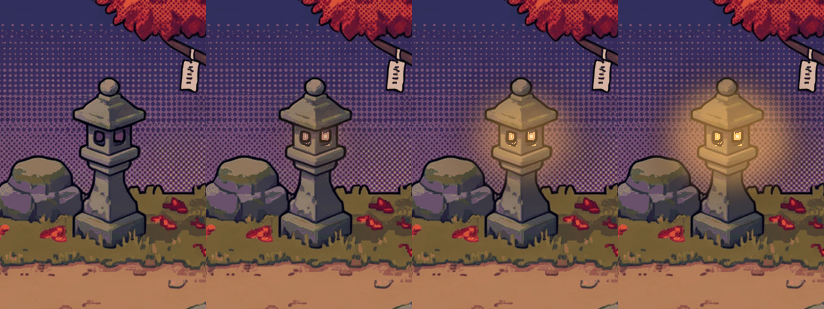
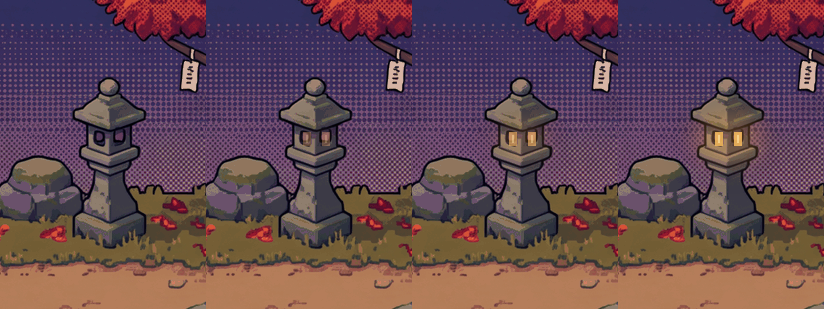
Realm props: Pomelo has to come about a body length from a prop before it reacts (reach max(70px, 16% of stage), was 30%), and the four lantern sheets are repainted with a quieter glow: warm amber windows instead of white-hot, a halo half the size at half the strength.
Claude-Session: https://claude.ai/code/session_01Vj1nxmQmmwQb3qWB1ZfZZg

Changed region(s): [[0.7888, 0.2621, 0.9709, 0.6408], [0.5765, 0.2913, 0.6978, 0.6117], [0.3641, 0.3786, 0.4248, 0.4951]]

diff --git a/realm.html b/realm.html
@@ -7,10 +7,10 @@
 <meta name="theme-color" content="#16112b" />
 <title>Realm, ScoreQuest</title>
 <meta name="description" content="Walk the realm: a side-view stroll through one biome of the quest." />
-<link rel="stylesheet" href="css/style.css?v=b20261027a" />
+<link rel="stylesheet" href="css/style.css?v=b20261027b" />
 <link href="https://fonts.googleapis.com/css2?family=Pixelify+Sans:wght@400;600;700&display=swap" rel="stylesheet" />
-<link rel="stylesheet" href="assets/katex/katex.min.css?v=b20261027a" />
-<link rel="stylesheet" href="css/clash.css?v=b20261027a" />
+<link rel="stylesheet" href="assets/katex/katex.min.css?v=b20261027b" />
+<link rel="stylesheet" href="css/clash.css?v=b20261027b" />
 <link rel="icon" type="image/png" href="assets/logo.png" />
 </head>
 <body class="page-realm">
@@ -65,21 +65,21 @@
 </div>
 
 <script src="https://cdn.jsdelivr.net/npm/@supabase/supabase-js@2"></script>
-<script src="js/config.js?v=b20261027a"></script>
-<script src="js/auth.js?v=b20261027a"></script>
-<script src="js/paws.js?v=b20261027a"></script>
-<script src="js/sfx.js?v=b20261027a"></script>
-<script src="js/companion.js?v=b20261027a"></script>
-<script src="assets/katex/katex.min.js?v=b20261027a"></script>
-<script src="assets/katex/auto-render.min.js?v=b20261027a"></script>
-<script src="data/questions.js?v=b20261027a"></script>
-<script src="data/waypoints.js?v=b20261027a"></script>
-<script src="data/lessons.js?v=b20261027a"></script>
-<script src="js/figures.js?v=b20261027a"></script>
-<script src="js/questions.js?v=b20261027a"></script>
-<script src="js/qcard.js?v=b20261027a"></script>
-<script src="js/clash-arena.js?v=b20261027a"></script>
-<script src="js/clash-overlay.js?v=b20261027a"></script>
-<script src="js/realm.js?v=b20261027a"></script>
+<script src="js/config.js?v=b20261027b"></script>
+<script src="js/auth.js?v=b20261027b"></script>
+<script src="js/paws.js?v=b20261027b"></script>
+<script src="js/sfx.js?v=b20261027b"></script>
+<script src="js/companion.js?v=b20261027b"></script>
+<script src="assets/katex/katex.min.js?v=b20261027b"></script>
+<script src="assets/katex/auto-render.min.js?v=b20261027b"></script>
+<script src="data/questions.js?v=b20261027b"></script>
+<script src="data/waypoints.js?v=b20261027b"></script>
+<script src="data/lessons.js?v=b20261027b"></script>
+<script src="js/figures.js?v=b20261027b"></script>
+<script src="js/questions.js?v=b20261027b"></script>
+<script src="js/qcard.js?v=b20261027b"></script>
+<script src="js/clash-arena.js?v=b20261027b"></script>
+<script src="js/clash-overlay.js?v=b20261027b"></script>
+<script src="js/realm.js?v=b20261027b"></script>
 </body>
 </html>

diff --git a/clash.html b/clash.html
@@ -9,8 +9,8 @@
 <link rel="preconnect" href="https://fonts.googleapis.com" />
 <link rel="preconnect" href="https://fonts.gstatic.com" crossorigin />
 <link href="https://fonts.googleapis.com/css2?family=Pixelify+Sans:wght@400;600;700&display=swap" rel="stylesheet" />
-<link rel="stylesheet" href="assets/katex/katex.min.css?v=b20261027a" />
-<link rel="stylesheet" href="css/clash.css?v=b20261027a" />
+<link rel="stylesheet" href="assets/katex/katex.min.css?v=b20261027b" />
+<link rel="stylesheet" href="css/clash.css?v=b20261027b" />
 <style>
 :root {
   --bg: #efe9da; --card: #fffdf7; --ink: #2b2118; --muted: #6f6252; --line: #d9cfba;
@@ -131,16 +131,16 @@ body.focus .trail .here { display: none; }
 </main>
 
 <script defer src="https://cdn.jsdelivr.net/npm/@supabase/supabase-js@2"></script>
-<script defer src="assets/katex/katex.min.js?v=b20261027a"></script>
-<script defer src="assets/katex/auto-render.min.js?v=b20261027a"></script>
-<script defer src="js/config.js?v=b20261027a"></script>
-<script defer src="js/auth.js?v=b20261027a"></script>
-<script defer src="data/questions.js?v=b20261027a"></script>
-<script defer src="js/figures.js?v=b20261027a"></script>
-<script defer src="js/questions.js?v=b20261027a"></script>
-<script defer src="js/qcard.js?v=b20261027a"></script>
-<script defer src="js/clash-arena.js?v=b20261027a"></script>
-<script defer src="js/clash-ambient.js?v=b20261027a"></script>
-<script defer src="js/clash.js?v=b20261027a"></script>
+<script defer src="assets/katex/katex.min.js?v=b20261027b"></script>
+<script defer src="assets/katex/auto-render.min.js?v=b20261027b"></script>
+<script defer src="js/config.js?v=b20261027b"></script>
+<script defer src="js/auth.js?v=b20261027b"></script>
+<script defer src="data/questions.js?v=b20261027b"></script>
+<script defer src="js/figures.js?v=b20261027b"></script>
+<script defer src="js/questions.js?v=b20261027b"></script>
+<script defer src="js/qcard.js?v=b20261027b"></script>
+<script defer src="js/clash-arena.js?v=b20261027b"></script>
+<script defer src="js/clash-ambient.js?v=b20261027b"></script>
+<script defer src="js/clash.js?v=b20261027b"></script>
 </body>
 </html>

diff --git a/index.html b/index.html
@@ -13,7 +13,7 @@
    before first paint so navigation never flashes the marketing tabs */
 try { if (window.localStorage.getItem('sb-moasnmwcikwybriwaoip-auth-token')) document.documentElement.classList.add('is-authed'); } catch (e) {}
 </script>
-<link rel="stylesheet" href="css/style.css?v=b20261027a" />
+<link rel="stylesheet" href="css/style.css?v=b20261027b" />
 
 <link rel="icon" type="image/png" href="assets/logo.png" />
 </head>
@@ -479,16 +479,16 @@ try { if (window.localStorage.getItem('sb-moasnmwcikwybriwaoip-auth-token')) doc
 </footer>
 
 <script defer src="https://cdn.jsdelivr.net/npm/@supabase/supabase-js@2"></script>
-<script defer src="js/config.js?v=b20261027a"></script>
-<script defer src="js/auth.js?v=b20261027a"></script>
-<script defer src="js/usernav.js?v=b20261027a"></script>
-<script defer src="js/pixelworld.js?v=b20261027a"></script>
-<script defer src="js/game.js?v=b20261027a"></script>
-<script defer src="js/sfx.js?v=b20261027a"></script>
-<script defer src="data/questions.js?v=b20261027a"></script>
-<script defer src="js/questions.js?v=b20261027a"></script>
-<script defer src="js/map.js?v=b20261027a"></script>
-<script defer src="js/parents.js?v=b20261027a"></script>
-<script defer src="js/main.js?v=b20261027a"></script>
+<script defer src="js/config.js?v=b20261027b"></script>
+<script defer src="js/auth.js?v=b20261027b"></script>
+<script defer src="js/usernav.js?v=b20261027b"></script>
+<script defer src="js/pixelworld.js?v=b20261027b"></script>
+<script defer src="js/game.js?v=b20261027b"></script>
+<script defer src="js/sfx.js?v=b20261027b"></script>
+<script defer src="data/questions.js?v=b20261027b"></script>
+<script defer src="js/questions.js?v=b20261027b"></script>
+<script defer src="js/map.js?v=b20261027b"></script>
+<script defer src="js/parents.js?v=b20261027b"></script>
+<script defer src="js/main.js?v=b20261027b"></script>
 </body>
 </html>

diff --git a/practice.html b/practice.html
@@ -10,8 +10,8 @@
 <script>
 try { if (window.localStorage.getItem('sb-moasnmwcikwybriwaoip-auth-token')) document.documentElement.classList.add('is-authed'); } catch (e) {}
 </script>
-<link rel="stylesheet" href="css/style.css?v=b20261027a" />
-<link rel="stylesheet" href="assets/katex/katex.min.css?v=b20261027a" />
+<link rel="stylesheet" href="css/style.css?v=b20261027b" />
+<link rel="stylesheet" href="assets/katex/katex.min.css?v=b20261027b" />
 <link rel="icon" type="image/png" href="assets/logo.png" />
 </head>
 <body class="page-map page-practice">
@@ -106,14 +106,14 @@ try { if (window.localStorage.getItem('sb-moasnmwcikwybriwaoip-auth-token')) doc
 </main>
 
 <script defer src="https://cdn.jsdelivr.net/npm/@supabase/supabase-js@2"></script>
-<script defer src="assets/katex/katex.min.js?v=b20261027a"></script>
-<script defer src="assets/katex/auto-render.min.js?v=b20261027a"></script>
-<script defer src="js/config.js?v=b20261027a"></script>
-<script defer src="js/auth.js?v=b20261027a"></script>
-<script defer src="js/usernav.js?v=b20261027a"></script>
-<script defer src="data/questions.js?v=b20261027a"></script>
-<script defer src="js/figures.js?v=b20261027a"></script>
-<script defer src="js/questions.js?v=b20261027a"></script>
-<script defer src="js/practice.js?v=b20261027a"></script>
+<script defer src="assets/katex/katex.min.js?v=b20261027b"></script>
+<script defer src="assets/katex/auto-render.min.js?v=b20261027b"></script>
+<script defer src="js/config.js?v=b20261027b"></script>
+<script defer src="js/auth.js?v=b20261027b"></script>
+<script defer src="js/usernav.js?v=b20261027b"></script>
+<script defer src="data/questions.js?v=b20261027b"></script>
+<script defer src="js/figures.js?v=b20261027b"></script>
+<script defer src="js/questions.js?v=b20261027b"></script>
+<script defer src="js/practice.js?v=b20261027b"></script>
 </body>
 </html>

diff --git a/map.html b/map.html
@@ -12,7 +12,7 @@
    before first paint so navigation never flashes the marketing tabs */
 try { if (window.localStorage.getItem('sb-moasnmwcikwybriwaoip-auth-token')) document.documentElement.classList.add('is-authed'); } catch (e) {}
 </script>
-<link rel="stylesheet" href="css/style.css?v=b20261027a" />
+<link rel="stylesheet" href="css/style.css?v=b20261027b" />
 <link rel="icon" type="image/png" href="assets/logo.png" />
 </head>
 <body class="page-map">
@@ -49,15 +49,15 @@ try { if (window.localStorage.getItem('sb-moasnmwcikwybriwaoip-auth-token')) doc
 </main>
 
 <script src="https://cdn.jsdelivr.net/npm/@supabase/supabase-js@2"></script>
-<script src="js/config.js?v=b20261027a"></script>
-<script src="js/auth.js?v=b20261027a"></script>
-<script src="js/usernav.js?v=b20261027a"></script>
-<script src="js/pixelworld.js?v=b20261027a"></script>
-<script src="js/game.js?v=b20261027a"></script>
-<script src="js/map.js?v=b20261027a"></script>
-<script src="js/sfx.js?v=b20261027a"></script>
-<script src="js/intro.js?v=b20261027a"></script>
-<script src="js/companion.js?v=b20261027a"></script>
-<script src="js/main.js?v=b20261027a"></script>
+<script src="js/config.js?v=b20261027b"></script>
+<script src="js/auth.js?v=b20261027b"></script>
+<script src="js/usernav.js?v=b20261027b"></script>
+<script src="js/pixelworld.js?v=b20261027b"></script>
+<script src="js/game.js?v=b20261027b"></script>
+<script src="js/map.js?v=b20261027b"></script>
+<script src="js/sfx.js?v=b20261027b"></script>
+<script src="js/intro.js?v=b20261027b"></script>
+<script src="js/companion.js?v=b20261027b"></script>
+<script src="js/main.js?v=b20261027b"></script>
 </body>
 </html>

diff --git a/checkout.html b/checkout.html
@@ -12,7 +12,7 @@
    before first paint so navigation never flashes the marketing tabs */
 try { if (window.localStorage.getItem('sb-moasnmwcikwybriwaoip-auth-token')) document.documentElement.classList.add('is-authed'); } catch (e) {}
 </script>
-<link rel="stylesheet" href="css/style.css?v=b20261027a" />
+<link rel="stylesheet" href="css/style.css?v=b20261027b" />
 <link rel="icon" type="image/png" href="assets/logo.png" />
 </head>
 <body class="page-checkout">
@@ -114,11 +114,11 @@ try { if (window.localStorage.getItem('sb-moasnmwcikwybriwaoip-auth-token')) doc
 </footer>
 
 <script src="https://cdn.jsdelivr.net/npm/@supabase/supabase-js@2"></script>
-<script src="js/config.js?v=b20261027a"></script>
-<script src="js/auth.js?v=b20261027a"></script>
-<script src="js/usernav.js?v=b20261027a"></script>
-<script src="js/sfx.js?v=b20261027a"></script>
-<script src="js/checkout.js?v=b20261027a"></script>
-<script src="js/main.js?v=b20261027a"></script>
+<script src="js/config.js?v=b20261027b"></script>
+<script src="js/auth.js?v=b20261027b"></script>
+<script src="js/usernav.js?v=b20261027b"></script>
+<script src="js/sfx.js?v=b20261027b"></script>
+<script src="js/checkout.js?v=b20261027b"></script>
+<script src="js/main.js?v=b20261027b"></script>
 </body>
 </html>

diff --git a/bookmarks.html b/bookmarks.html
@@ -10,7 +10,7 @@
 <script>
 try { if (window.localStorage.getItem('sb-moasnmwcikwybriwaoip-auth-token')) document.documentElement.classList.add('is-authed'); } catch (e) {}
 </script>
-<link rel="stylesheet" href="css/style.css?v=b20261027a" />
+<link rel="stylesheet" href="css/style.css?v=b20261027b" />
 <link rel="icon" type="image/png" href="assets/logo.png" />
 </head>
 <body class="page-map" data-account-page="bookmarks">
@@ -41,10 +41,10 @@ try { if (window.localStorage.getItem('sb-moasnmwcikwybriwaoip-auth-token')) doc
 </main>
 
 <script defer src="https://cdn.jsdelivr.net/npm/@supabase/supabase-js@2"></script>
-<script defer src="js/config.js?v=b20261027a"></script>
-<script defer src="js/auth.js?v=b20261027a"></script>
-<script defer src="js/usernav.js?v=b20261027a"></script>
-<script defer src="js/sfx.js?v=b20261027a"></script>
-<script defer src="js/account-pages.js?v=b20261027a"></script>
+<script defer src="js/config.js?v=b20261027b"></script>
+<script defer src="js/auth.js?v=b20261027b"></script>
+<script defer src="js/usernav.js?v=b20261027b"></script>
+<script defer src="js/sfx.js?v=b20261027b"></script>
+<script defer src="js/account-pages.js?v=b20261027b"></script>
 </body>
 </html>

diff --git a/settings.html b/settings.html
@@ -10,7 +10,7 @@
 <script>
 try { if (window.localStorage.getItem('sb-moasnmwcikwybriwaoip-auth-token')) document.documentElement.classList.add('is-authed'); } catch (e) {}
 </script>
-<link rel="stylesheet" href="css/style.css?v=b20261027a" />
+<link rel="stylesheet" href="css/style.css?v=b20261027b" />
 <link rel="icon" type="image/png" href="assets/logo.png" />
 </head>
 <body class="page-map" data-account-page="settings">
@@ -66,10 +66,10 @@ try { if (window.localStorage.getItem('sb-moasnmwcikwybriwaoip-auth-token')) doc
 </main>
 
 <script defer src="https://cdn.jsdelivr.net/npm/@supabase/supabase-js@2"></script>
-<script defer src="js/config.js?v=b20261027a"></script>
-<script defer src="js/auth.js?v=b20261027a"></script>
-<script defer src="js/usernav.js?v=b20261027a"></script>
-<script defer src="js/sfx.js?v=b20261027a"></script>
-<script defer src="js/account-pages.js?v=b20261027a"></script>
+<script defer src="js/config.js?v=b20261027b"></script>
+<script defer src="js/auth.js?v=b20261027b"></script>
+<script defer src="js/usernav.js?v=b20261027b"></script>
+<script defer src="js/sfx.js?v=b20261027b"></script>
+<script defer src="js/account-pages.js?v=b20261027b"></script>
 </body>
 </html>

diff --git a/profile.html b/profile.html
@@ -10,7 +10,7 @@
 <script>
 try { if (window.localStorage.getItem('sb-moasnmwcikwybriwaoip-auth-token')) document.documentElement.classList.add('is-authed'); } catch (e) {}
 </script>
-<link rel="stylesheet" href="css/style.css?v=b20261027a" />
+<link rel="stylesheet" href="css/style.css?v=b20261027b" />
 <link rel="icon" type="image/png" href="assets/logo.png" />
 </head>
 <body class="page-map" data-account-page="profile">
@@ -87,10 +87,10 @@ try { if (window.localStorage.getItem('sb-moasnmwcikwybriwaoip-auth-token')) doc
 </main>
 
 <script defer src="https://cdn.jsdelivr.net/npm/@supabase/supabase-js@2"></script>
-<script defer src="js/config.js?v=b20261027a"></script>
-<script defer src="js/auth.js?v=b20261027a"></script>
-<script defer src="js/usernav.js?v=b20261027a"></script>
-<script defer src="js/sfx.js?v=b20261027a"></script>
-<script defer src="js/account-pages.js?v=b20261027a"></script>
+<script defer src="js/config.js?v=b20261027b"></script>
+<script defer src="js/auth.js?v=b20261027b"></script>
+<script defer src="js/usernav.js?v=b20261027b"></script>
+<script defer src="js/sfx.js?v=b20261027b"></script>
+<script defer src="js/account-pages.js?v=b20261027b"></script>
 </body>
 </html>

diff --git a/parents.html b/parents.html
@@ -12,7 +12,7 @@
    before first paint so navigation never flashes the marketing tabs */
 try { if (window.localStorage.getItem('sb-moasnmwcikwybriwaoip-auth-token')) document.documentElement.classList.add('is-authed'); } catch (e) {}
 </script>
-<link rel="stylesheet" href="css/style.css?v=b20261027a" />
+<link rel="stylesheet" href="css/style.css?v=b20261027b" />
 <link rel="icon" type="image/png" href="assets/logo.png" />
 </head>
 <body class="page-parents">
@@ -162,10 +162,10 @@ try { if (window.localStorage.getItem('sb-moasnmwcikwybriwaoip-auth-token')) doc
 </footer>
 
 <script src="https://cdn.jsdelivr.net/npm/@supabase/supabase-js@2"></script>
-<script src="js/config.js?v=b20261027a"></script>
-<script src="js/auth.js?v=b20261027a"></script>
-<script src="js/usernav.js?v=b20261027a"></script>
-<script src="js/sfx.js?v=b20261027a"></script>
-<script src="js/main.js?v=b20261027a"></script>
+<script src="js/config.js?v=b20261027b"></script>
+<script src="js/auth.js?v=b20261027b"></script>
+<script src="js/usernav.js?v=b20261027b"></script>
+<script src="js/sfx.js?v=b20261027b"></script>
+<script src="js/main.js?v=b20261027b"></script>
 </body>
 </html>

diff --git a/success.html b/success.html
@@ -12,7 +12,7 @@
    before first paint so navigation never flashes the marketing tabs */
 try { if (window.localStorage.getItem('sb-moasnmwcikwybriwaoip-auth-token')) document.documentElement.classList.add('is-authed'); } catch (e) {}
 </script>
-<link rel="stylesheet" href="css/style.css?v=b20261027a" />
+<link rel="stylesheet" href="css/style.css?v=b20261027b" />
 <link rel="icon" type="image/png" href="assets/logo.png" />
 </head>
 <body class="page-success">
@@ -69,10 +69,10 @@ try { if (window.localStorage.getItem('sb-moasnmwcikwybriwaoip-auth-token')) doc
 </footer>
 
 <script src="https://cdn.jsdelivr.net/npm/@supabase/supabase-js@2"></script>
-<script src="js/config.js?v=b20261027a"></script>
-<script src="js/auth.js?v=b20261027a"></script>
-<script src="js/usernav.js?v=b20261027a"></script>
-<script src="js/sfx.js?v=b20261027a"></script>
-<script src="js/main.js?v=b20261027a"></script>
+<script src="js/config.js?v=b20261027b"></script>
+<script src="js/auth.js?v=b20261027b"></script>
+<script src="js/usernav.js?v=b20261027b"></script>
+<script src="js/sfx.js?v=b20261027b"></script>
+<script src="js/main.js?v=b20261027b"></script>
 </body>
 </html>

diff --git a/boss.html b/boss.html
@@ -7,7 +7,7 @@
 <meta name="theme-color" content="#16112b" />
 <title>Boss fight, ScoreQuest</title>
 <meta name="description" content="The guardian at the end of the realm. Answer true, strike true." />
-<link rel="stylesheet" href="css/style.css?v=b20261027a" />
+<link rel="stylesheet" href="css/style.css?v=b20261027b" />
 <link rel="icon" type="image/png" href="assets/logo.png" />
 </head>
 <body class="page-boss">
@@ -109,10 +109,10 @@
 </div>
 
 <script src="https://cdn.jsdelivr.net/npm/@supabase/supabase-js@2"></script>
-<script src="js/config.js?v=b20261027a"></script>
-<script src="js/auth.js?v=b20261027a"></script>
-<script src="js/sfx.js?v=b20261027a"></script>
-<script src="js/companion.js?v=b20261027a"></script>
-<script src="js/boss.js?v=b20261027a"></script>
+<script src="js/config.js?v=b20261027b"></script>
+<script src="js/auth.js?v=b20261027b"></script>
+<script src="js/sfx.js?v=b20261027b"></script>
+<script src="js/companion.js?v=b20261027b"></script>
+<script src="js/boss.js?v=b20261027b"></script>
 </body>
 </html>
